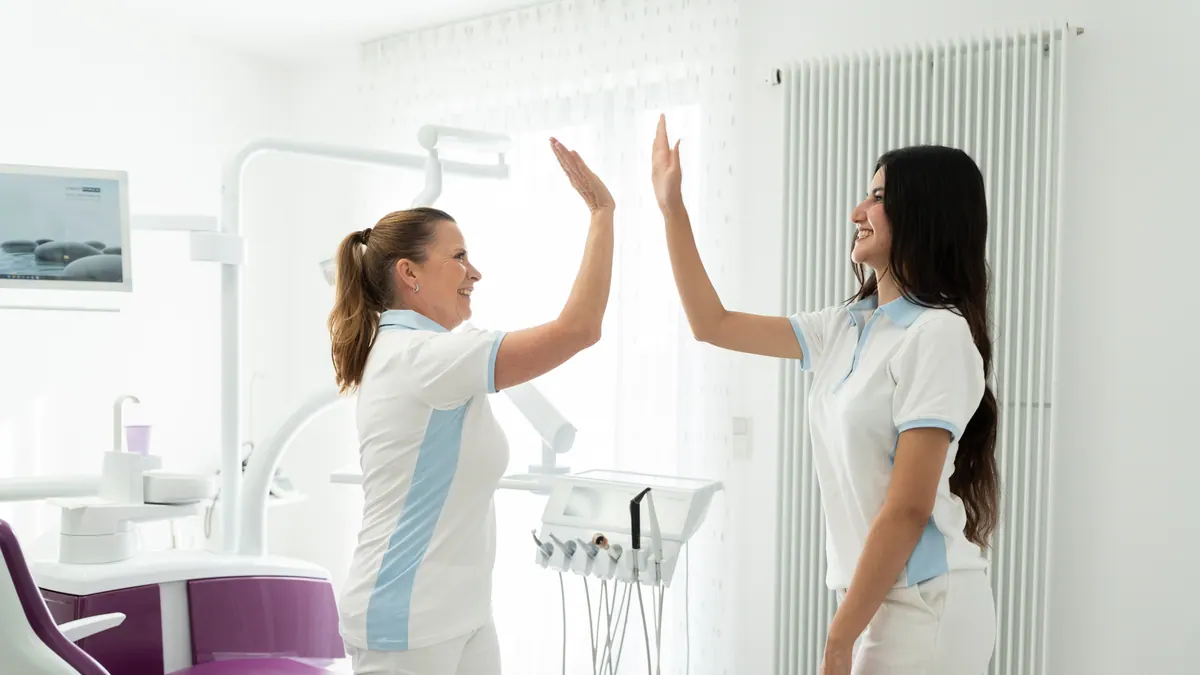
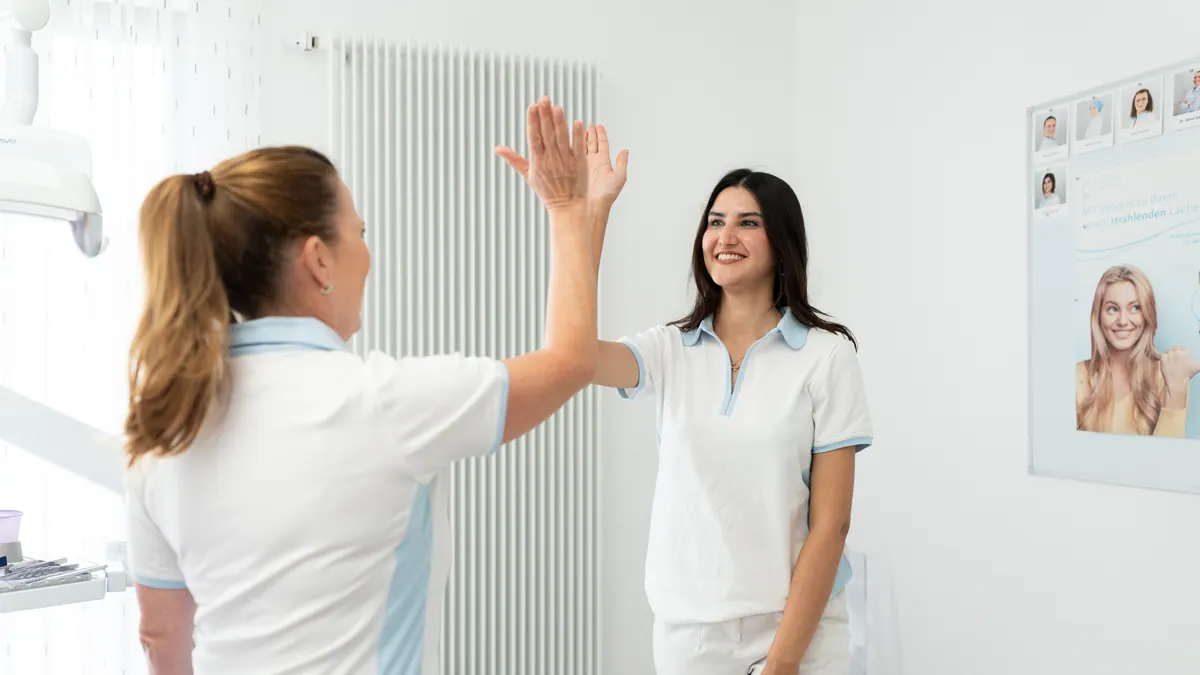
Korrekturen nach Durchsicht Awan: Bilder, Kundenmail, Ampel, Hero
- Nur Querformat-Fotos, jedes Motiv nur einmal (Schnuppertag, Fotoband, Helle Räume, Stellenbilder neu)
- Fotoband auf fünf verschiedene Motive reduziert
- Titelbild zweispaltig in voller Größe (3:2), nichts mehr abgeschnitten
- Bewerbungen und alle Adressen an info@zahnzentrum-messerschmidt.de statt AO-Adresse
- Stellen-Marken als Ampel: Offen grün, Initiativ senfgelb
- Zeile „Stelle veröffentlicht am … gültig bis …“ auf den Stellenseiten entfernt

Auf Wunsch von Awan Tofik.

Claude-Session: https://claude.ai/code/session_01Jm15P5HLa1fSZr9iYkc7sW

diff --git a/website/index.html b/website/index.html
@@ -70,21 +70,21 @@
 <main id="inhalt">
 
   <section class="hero" aria-labelledby="hero-titel">
-    <figure class="hero-bild-rahmen">
-      <picture>
-        <source media="(max-width:760px)" srcset="assets/img/hero-team-mobil.webp" type="image/webp">
-        <source media="(max-width:760px)" srcset="assets/img/hero-team-mobil.jpg">
-        <source srcset="assets/img/hero-team.webp" type="image/webp">
-        <img src="assets/img/hero-team.jpg" alt="Das Team des Zahnzentrums Messerschmidt in einem hellen Behandlungszimmer" width="2400" height="1029" fetchpriority="high">
-      </picture>
-    </figure>
-    <div class="wrap">
+    <div class="wrap hero-raster">
       <div class="hero-text">
         <span class="gross">Zahnzentrum Messerschmidt &nbsp;|&nbsp; Karriere</span>
         <h1 id="hero-titel">ZFA | ZMP | ZMF &amp; Azubi Jobs in Mainz-Laubenheim</h1>
         <p>Starte Deine Karriere im Zahnzentrum Messerschmidt. Wir suchen Dich als Verstärkung für unser Team – in einem hellen, modernen Haus mit netten Kolleginnen und Kollegen.</p>
         <p class="hero-knoepfe"><a class="knopf" href="#stellen">Zu den Stellenangeboten</a> <a class="knopf knopf-rand" href="https://wa.me/4915154321140?text=Hallo%2C%20ich%20interessiere%20mich%20f%C3%BCr%20eine%20Stelle%20im%20Zahnzentrum%20Messerschmidt." rel="noopener" target="_blank">Per WhatsApp schreiben</a></p>
       </div>
+      <figure class="hero-bild-rahmen">
+        <picture>
+          <source media="(max-width:760px)" srcset="assets/img/hero-team-mobil.webp" type="image/webp">
+          <source media="(max-width:760px)" srcset="assets/img/hero-team-mobil.jpg">
+          <source srcset="assets/img/hero-team.webp" type="image/webp">
+          <img src="assets/img/hero-team.jpg" alt="Das Team des Zahnzentrums Messerschmidt in einem hellen Behandlungszimmer" width="1800" height="1200" fetchpriority="high">
+        </picture>
+      </figure>
     </div>
   </section>
 
@@ -136,34 +136,16 @@
 
   <div class="fotoband" aria-label="Einblicke in die Praxis – Bilder laufen automatisch durch">
     <div class="fotoband-spur">
-    <img src="assets/img/praxis-29.webp" alt="Das Praxisteam in einem hellen Behandlungszimmer" width="900" height="600" loading="lazy">
-    <img src="assets/img/praxis-23.webp" alt="Zwei Kolleginnen klatschen sich ab" width="900" height="600" loading="lazy">
-    <img src="assets/img/praxis-14.webp" alt="Das Zahnzentrum von oben mit Solaranlage" width="900" height="600" loading="lazy">
-    <img src="assets/img/praxis-33.webp" alt="Mitarbeiterin am Empfang" width="900" height="600" loading="lazy">
-    <img src="assets/img/praxis-16.webp" alt="Fünf Kolleginnen im Behandlungszimmer" width="900" height="600" loading="lazy">
-    <img src="assets/img/praxis-53.webp" alt="Zwei Kolleginnen im hellen Praxisflur" width="900" height="600" loading="lazy">
-    <img src="assets/img/praxis-43.webp" alt="Zwei Kolleginnen am Empfang mit Tablet" width="900" height="600" loading="lazy">
-    <img src="assets/img/praxis-2.webp" alt="Das Gebäude des Zahnzentrums Messerschmidt" width="900" height="600" loading="lazy">
-    <img src="assets/img/praxis-112.webp" alt="Zahnärztin und Kollegin im Behandlungszimmer" width="900" height="600" loading="lazy">
-    <img src="assets/img/praxis-36.webp" alt="Mitarbeiterin telefoniert am Empfang" width="900" height="600" loading="lazy">
-    <img src="assets/img/praxis-19.webp" alt="Hände des Teams übereinander" width="900" height="600" loading="lazy">
-    <img src="assets/img/praxis-47.webp" alt="Zwei Kolleginnen besprechen etwas am Empfang" width="900" height="600" loading="lazy">
-    <img src="assets/img/praxis-105.webp" alt="Zwei Kolleginnen in der Praxis" width="900" height="600" loading="lazy">
-    <img src="assets/img/praxis-28.webp" alt="Das Praxisteam im Behandlungszimmer" width="900" height="600" loading="lazy">
-    <img aria-hidden="true" src="assets/img/praxis-29.webp" alt="" width="900" height="600" loading="lazy">
-    <img aria-hidden="true" src="assets/img/praxis-23.webp" alt="" width="900" height="600" loading="lazy">
-    <img aria-hidden="true" src="assets/img/praxis-14.webp" alt="" width="900" height="600" loading="lazy">
-    <img aria-hidden="true" src="assets/img/praxis-33.webp" alt="" width="900" height="600" loading="lazy">
-    <img aria-hidden="true" src="assets/img/praxis-16.webp" alt="" width="900" height="600" loading="lazy">
-    <img aria-hidden="true" src="assets/img/praxis-53.webp" alt="" width="900" height="600" loading="lazy">
-    <img aria-hidden="true" src="assets/img/praxis-43.webp" alt="" width="900" height="600" loading="lazy">
-    <img aria-hidden="true" src="assets/img/praxis-2.webp" alt="" width="900" height="600" loading="lazy">
-    <img aria-hidden="true" src="assets/img/praxis-112.webp" alt="" width="900" height="600" loading="lazy">
-    <img aria-hidden="true" src="assets/img/praxis-36.webp" alt="" width="900" height="600" loading="lazy">
-    <img aria-hidden="true" src="assets/img/praxis-19.webp" alt="" width="900" height="600" loading="lazy">
-    <img aria-hidden="true" src="assets/img/praxis-47.webp" alt="" width="900" height="600" loading="lazy">
-    <img aria-hidden="true" src="assets/img/praxis-105.webp" alt="" width="900" height="600" loading="lazy">
-    <img aria-hidden="true" src="assets/img/praxis-28.webp" alt="" width="900" height="600" loading="lazy">
+    <img src="assets/img/praxis-68.webp" alt="Mitarbeiterin des Zahnzentrums" width="900" height="600" loading="lazy">
+    <img src="assets/img/praxis-12.webp" alt="Das Zahnzentrum in Mainz-Laubenheim von oben" width="900" height="600" loading="lazy">
+    <img src="assets/img/praxis-89.webp" alt="Mitarbeiterin des Zahnzentrums" width="900" height="600" loading="lazy">
+    <img src="assets/img/praxis-1.webp" alt="Eingang des Zahnzentrums Messerschmidt" width="900" height="600" loading="lazy">
+    <img src="assets/img/praxis-98.webp" alt="Mitarbeiterin des Zahnzentrums" width="900" height="600" loading="lazy">
+    <img aria-hidden="true" src="assets/img/praxis-68.webp" alt="" width="900" height="600" loading="lazy">
+    <img aria-hidden="true" src="assets/img/praxis-12.webp" alt="" width="900" height="600" loading="lazy">
+    <img aria-hidden="true" src="assets/img/praxis-89.webp" alt="" width="900" height="600" loading="lazy">
+    <img aria-hidden="true" src="assets/img/praxis-1.webp" alt="" width="900" height="600" loading="lazy">
+    <img aria-hidden="true" src="assets/img/praxis-98.webp" alt="" width="900" height="600" loading="lazy">
     </div>
   </div>
 
@@ -217,7 +199,7 @@
     <div class="karten">
       <article class="karte"><picture><source srcset="assets/img/gruende-kollegen.webp" type="image/webp"><img src="assets/img/gruende-kollegen.jpg" alt="Fünf Kolleginnen legen im Behandlungszimmer gemeinsam die Hände zusammen" width="900" height="675" loading="lazy"></picture><div class="karte-text"><h3>Nette Kollegen</h3><p>Ein herzliches Team, das zusammenhält, sich gegenseitig unterstützt und gemeinsam Erfolge feiert.</p></div></article>
       <article class="karte"><picture><source srcset="assets/img/gruende-modern.webp" type="image/webp"><img src="assets/img/gruende-modern.jpg" alt="Das moderne Gebäude des Zahnzentrums Messerschmidt" width="900" height="675" loading="lazy"></picture><div class="karte-text"><h3>Moderne Räumlichkeiten</h3><p>Ein eigens gebautes, ökologisches Haus mit vier modernen Behandlungszimmern und neuester Technik.</p></div></article>
-      <article class="karte"><picture><source srcset="assets/img/gruende-hell.webp" type="image/webp"><img src="assets/img/gruende-hell.jpg" alt="Zwei Kolleginnen klatschen sich in einem hellen Behandlungszimmer ab" width="900" height="675" loading="lazy"></picture><div class="karte-text"><h3>Helle Räumlichkeiten</h3><p>Viel Tageslicht und freundliche Farben – ein Arbeitsplatz, an dem man sich jeden Tag wohlfühlt.</p></div></article>
+      <article class="karte"><picture><source srcset="assets/img/gruende-hell.webp" type="image/webp"><img src="assets/img/gruende-hell.jpg" alt="Zahnärztin und Kollegin in einem hellen Behandlungszimmer" width="900" height="675" loading="lazy"></picture><div class="karte-text"><h3>Helle Räumlichkeiten</h3><p>Viel Tageslicht und freundliche Farben – ein Arbeitsplatz, an dem man sich jeden Tag wohlfühlt.</p></div></article>
     </div>
   </section>
 
@@ -260,7 +242,7 @@
       <article class="karte"><picture><source srcset="assets/img/prozess-unterlagen.webp" type="image/webp"><img src="assets/img/prozess-unterlagen.jpg" alt="Hände an einer Tastatur am Empfang" width="800" height="600" loading="lazy"></picture><div class="karte-text"><h3>Unterlagencheck</h3><p>Sobald Deine Bewerbung da ist, sehen wir sie uns an und melden uns schnell bei Dir.</p></div></article>
       <article class="karte"><picture><source srcset="assets/img/prozess-telefonat.webp" type="image/webp"><img src="assets/img/prozess-telefonat.jpg" alt="Mitarbeiterin telefoniert am Empfang" width="800" height="600" loading="lazy"></picture><div class="karte-text"><h3>Kurzes Telefonat</h3><p>In einem kurzen Gespräch lernen wir uns kennen und klären erste Fragen.</p></div></article>
       <article class="karte"><picture><source srcset="assets/img/prozess-gespraech.webp" type="image/webp"><img src="assets/img/prozess-gespraech.jpg" alt="Zwei Mitarbeiterinnen im Gespräch am Empfang" width="800" height="600" loading="lazy"></picture><div class="karte-text"><h3>Persönliches Gespräch</h3><p>Dann laden wir Dich zu uns ins Zahnzentrum ein und schauen gemeinsam, ob wir zusammenpassen.</p></div></article>
-      <article class="karte"><picture><source srcset="assets/img/prozess-schnuppertag.webp" type="image/webp"><img src="assets/img/prozess-schnuppertag.jpg" alt="Zwei Kolleginnen gehen lachend durch den hellen Praxisflur" width="800" height="600" loading="lazy"></picture><div class="karte-text"><h3>Schnuppertag</h3><p>An einem Schnuppertag erlebst Du unser Team und Deinen künftigen Arbeitsplatz ganz direkt.</p></div></article>
+      <article class="karte"><picture><source srcset="assets/img/prozess-schnuppertag.webp" type="image/webp"><img src="assets/img/prozess-schnuppertag.jpg" alt="Das Team legt die Hände übereinander" width="800" height="600" loading="lazy"></picture><div class="karte-text"><h3>Schnuppertag</h3><p>An einem Schnuppertag erlebst Du unser Team und Deinen künftigen Arbeitsplatz ganz direkt.</p></div></article>
     </div>
   </section>
 

diff --git a/website/assets/css/stil.css b/website/assets/css/stil.css
@@ -19,7 +19,7 @@
 :root{
   --dunkel:#27363f; --hell:#eff1f3; --fuss:#dce1e4; --grau:#636363; --grau-hell:#a7b0b6;
   --linie:rgba(39,54,63,.14); --hellblau-menue:#83d0f0;
-  --gruen:#3f8f5b; --orange:#c98a2b; --whatsapp:#25d366;
+  --gruen:#2e8b47; --orange:#d4a72c; --whatsapp:#25d366;
 }
 *,*::before,*::after{box-sizing:border-box}
 html{scroll-behavior:smooth;-webkit-text-size-adjust:100%}
@@ -87,17 +87,16 @@ section.wrap,.abschnitt>.wrap{padding-top:clamp(3.5rem,8vw,6.5rem);padding-botto
   .hauptnavi.offen{display:flex}
 }
 
-/* Hero: großes Teamfoto über die ganze Breite, Text darunter */
-.hero{background:#fff}
-.hero-bild-rahmen{margin:0;width:100%}
-.hero-bild-rahmen img{width:100%;aspect-ratio:21/9;object-fit:cover;object-position:50% 32%;max-height:78vh}
-@media (max-width:760px){.hero-bild-rahmen img{aspect-ratio:4/3;max-height:none}}
-.hero .wrap{padding-top:clamp(2rem,5vw,3.5rem);padding-bottom:clamp(1rem,3vw,2rem)}
-.hero-text{max-width:860px}
+/* Hero: Text links, Teamfoto rechts – Bild in voller Größe (3:2), nichts abgeschnitten */
+.hero{background:var(--hell)}
+.hero-raster{display:grid;grid-template-columns:minmax(0,1fr) minmax(0,1.25fr);gap:clamp(2rem,4vw,4rem);align-items:center;padding-top:clamp(2rem,4vw,3.5rem);padding-bottom:clamp(2rem,4vw,3.5rem)}
+.hero-bild-rahmen{margin:0}
+.hero-bild-rahmen img{width:100%;aspect-ratio:3/2;object-fit:cover}
+.hero-text{max-width:640px}
 .hero .gross{display:block;font-family:var(--schrift-ueberschrift);font-size:16px;letter-spacing:2px;text-transform:uppercase;font-weight:700;color:var(--primaer);margin:0 0 1rem}
 .hero h1{margin-bottom:.8rem}
-.hero p{max-width:680px}
 .hero-knoepfe{display:flex;flex-wrap:wrap;gap:.8rem;margin-top:1.4rem}
+@media (max-width:900px){.hero-raster{grid-template-columns:1fr}.hero-bild-rahmen{order:-1;margin:0 -16px}}
 
 /* Zweispalter */
 .zwei{display:grid;gap:clamp(2rem,5vw,5rem);grid-template-columns:1fr 1fr;align-items:center}
@@ -137,8 +136,8 @@ section.wrap,.abschnitt>.wrap{padding-top:clamp(3.5rem,8vw,6.5rem);padding-botto
 .stelle-zeile .pfeil{font-size:1.8rem;color:var(--primaer);font-weight:300}
 .marken{display:flex;flex-direction:column;gap:.35rem}
 .marke{display:inline-block;font-family:var(--schrift-ueberschrift);font-size:.78rem;font-weight:700;letter-spacing:1.5px;text-transform:uppercase;padding:.2rem .6rem;color:#fff;text-align:center;border-radius:2px}
-.marke-gruen{background:var(--primaer)}
-.marke-orange{background:var(--orange)}
+.marke-gruen{background:var(--gruen)}
+.marke-orange{background:var(--orange);color:var(--dunkel)}
 @media (max-width:640px){.stelle-zeile{grid-template-columns:1fr;gap:.6rem}.marken{flex-direction:row;flex-wrap:wrap}.stelle-zeile .pfeil{display:none}}
 
 /* Fotokarten (Drei Gründe, Prozess) */

diff --git a/website/stellen/ausbildung-zfa-mainz.html b/website/stellen/ausbildung-zfa-mainz.html
@@ -89,7 +89,7 @@
        Auf dem Handy: Kopf, dann Ansprechpartner/Fakten, dann Text – der Kontakt bleibt oben, nicht am Seitenende. -->
   <div class="wrap stelle-raster">
     <div class="stelle-kopf">
-      <figure class="stelle-bild"><img src="../assets/img/stelle-ausbildung.jpg" alt="Zahnärztin und junge Kollegin im Behandlungszimmer" width="1200" height="675" loading="lazy"></figure>
+      <figure class="stelle-bild"><img src="../assets/img/stelle-ausbildung.jpg" alt="Junge Mitarbeiterin des Zahnzentrums Messerschmidt" width="1200" height="675" loading="lazy"></figure>
       <p class="marken marken-zeile"><span class="marke marke-gruen">Offen</span><span class="marke marke-gruen">September 2027</span><span class="marke marke-grau">Mainz-Laubenheim</span><span class="marke marke-grau">Ausbildung</span></p>
       <h1>Ausbildung zur ZFA / Zahnmedizinischen Fachangestellten (m/w/d) 2027</h1>
       <p class="untertitel">Starte im September 2027 Deine Ausbildung zur Zahnmedizinischen Fachangestellten – mit Einarbeitungsplan, netten Kollegen und modernen Räumen.</p>
@@ -171,14 +171,13 @@
 
         <p class="formular-meldung" role="status" aria-live="polite"></p>
         <button class="knopf" type="submit">Bewerbung absenden</button>
-        <p class="hinweis-klein">Oder direkt per E-Mail an <a href="mailto:tofik@ao-consult.de?subject=Bewerbung:%20Ausbildung%20ZFA%202027">tofik@ao-consult.de</a></p>
+        <p class="hinweis-klein">Oder direkt per E-Mail an <a href="mailto:info@zahnzentrum-messerschmidt.de?subject=Bewerbung:%20Ausbildung%20ZFA%202027">info@zahnzentrum-messerschmidt.de</a></p>
       </form>
       </div>
     </div>
   </div>
 </main>
 
-<p class="wrap hinweis-klein stelle-datum">Stelle veröffentlicht am 6. Oktober 2026 · gültig bis 20. November 2026</p>
 <footer class="fuss">
   <div class="wrap fuss-oben">
     <div>

diff --git a/website/stellen/zmp-zmf-mainz.html b/website/stellen/zmp-zmf-mainz.html
@@ -90,7 +90,7 @@
        Auf dem Handy: Kopf, dann Ansprechpartner/Fakten, dann Text – der Kontakt bleibt oben, nicht am Seitenende. -->
   <div class="wrap stelle-raster">
     <div class="stelle-kopf">
-      <figure class="stelle-bild"><img src="../assets/img/stelle-zmp-zmf.jpg" alt="Zwei Mitarbeiterinnen besprechen etwas auf dem Tablet am Empfang" width="1200" height="675" loading="lazy"></figure>
+      <figure class="stelle-bild"><img src="../assets/img/stelle-zmp-zmf.jpg" alt="Mitarbeiterin des Zahnzentrums Messerschmidt" width="1200" height="675" loading="lazy"></figure>
       <p class="marken marken-zeile"><span class="marke marke-gruen">Offen</span><span class="marke marke-gruen">ab sofort</span><span class="marke marke-grau">Mainz-Laubenheim</span><span class="marke marke-grau">Vollzeit / Teilzeit</span></p>
       <h1>ZMP / ZMF – Zahnmedizinische Prophylaxe- oder Fachassistenz (m/w/d)</h1>
       <p class="untertitel">Eigenverantwortliche Prophylaxe, professionelle Zahnreinigung und Patientenaufklärung in einem hellen, modernen Zahnzentrum.</p>
@@ -174,14 +174,13 @@
 
         <p class="formular-meldung" role="status" aria-live="polite"></p>
         <button class="knopf" type="submit">Bewerbung absenden</button>
-        <p class="hinweis-klein">Oder direkt per E-Mail an <a href="mailto:tofik@ao-consult.de?subject=Bewerbung:%20ZMP%20/%20ZMF">tofik@ao-consult.de</a></p>
+        <p class="hinweis-klein">Oder direkt per E-Mail an <a href="mailto:info@zahnzentrum-messerschmidt.de?subject=Bewerbung:%20ZMP%20/%20ZMF">info@zahnzentrum-messerschmidt.de</a></p>
       </form>
       </div>
     </div>
   </div>
 </main>
 
-<p class="wrap hinweis-klein stelle-datum">Stelle veröffentlicht am 6. Oktober 2026 · gültig bis 20. November 2026</p>
 <footer class="fuss">
   <div class="wrap fuss-oben">
     <div>

diff --git a/website/stellen/zfa-mainz.html b/website/stellen/zfa-mainz.html
@@ -174,14 +174,13 @@
 
         <p class="formular-meldung" role="status" aria-live="polite"></p>
         <button class="knopf" type="submit">Bewerbung absenden</button>
-        <p class="hinweis-klein">Oder direkt per E-Mail an <a href="mailto:tofik@ao-consult.de?subject=Bewerbung:%20ZFA%20–%20Zahnmedizinische%20Fachangestellte">tofik@ao-consult.de</a></p>
+        <p class="hinweis-klein">Oder direkt per E-Mail an <a href="mailto:info@zahnzentrum-messerschmidt.de?subject=Bewerbung:%20ZFA%20–%20Zahnmedizinische%20Fachangestellte">info@zahnzentrum-messerschmidt.de</a></p>
       </form>
       </div>
     </div>
   </div>
 </main>
 
-<p class="wrap hinweis-klein stelle-datum">Stelle veröffentlicht am 6. Oktober 2026 · gültig bis 20. November 2026</p>
 <footer class="fuss">
   <div class="wrap fuss-oben">
     <div>

diff --git a/vorlagen/stelle.html b/vorlagen/stelle.html
@@ -128,7 +128,6 @@
   </div>
 </main>
 
-<p class="wrap hinweis-klein stelle-datum">Stelle veröffentlicht am {{veroeffentlicht_lesbar}} · gültig bis {{gueltig_bis_lesbar}}</p>
 {{{fuss_html}}}
 {{{whatsapp_schwebend}}}
 

diff --git a/website/bewerbung-konfiguration.php b/website/bewerbung-konfiguration.php
@@ -8,7 +8,7 @@ return [
   '_max_dateien' => 3,
   '_max_mb' => 10,
   '_loeschfrist_monate' => 6,
-  "zfa-mainz" => ['empfaenger' => ["tofik@ao-consult.de"], 'titel' => "ZFA / Zahnmedizinische Fachangestellte (m/w/d) in Voll- oder Teilzeit", 'standort' => "Mainz-Laubenheim"],
-  "zmp-zmf-mainz" => ['empfaenger' => ["tofik@ao-consult.de"], 'titel' => "ZMP / ZMF – Zahnmedizinische Prophylaxe- oder Fachassistenz (m/w/d)", 'standort' => "Mainz-Laubenheim"],
-  "ausbildung-zfa-mainz" => ['empfaenger' => ["tofik@ao-consult.de"], 'titel' => "Ausbildung zur ZFA / Zahnmedizinischen Fachangestellten (m/w/d) 2027", 'standort' => "Mainz-Laubenheim"],
+  "zfa-mainz" => ['empfaenger' => ["info@zahnzentrum-messerschmidt.de"], 'titel' => "ZFA / Zahnmedizinische Fachangestellte (m/w/d) in Voll- oder Teilzeit", 'standort' => "Mainz-Laubenheim"],
+  "zmp-zmf-mainz" => ['empfaenger' => ["info@zahnzentrum-messerschmidt.de"], 'titel' => "ZMP / ZMF – Zahnmedizinische Prophylaxe- oder Fachassistenz (m/w/d)", 'standort' => "Mainz-Laubenheim"],
+  "ausbildung-zfa-mainz" => ['empfaenger' => ["info@zahnzentrum-messerschmidt.de"], 'titel' => "Ausbildung zur ZFA / Zahnmedizinischen Fachangestellten (m/w/d) 2027", 'standort' => "Mainz-Laubenheim"],
 ];

diff --git a/doku/entscheidungen.md b/doku/entscheidungen.md
@@ -6,7 +6,7 @@ Stand 06.10.2026, Awan Tofik mit Claude.
 
 - Aufbau nach dem Standard der Karriereseiten (ao-karriere, whiteblick-karriere), CI der Hauptseite zahnzentrum-messerschmidt.de.
 - Logo und CI von der Hauptseite nehmen (SVG kommt laut Onboarding später von der Kundin).
-- Testbewerbungen an **tofik@ao-consult.de**. Absender: **jobs@zahnzentrum-messerschmidt-karriere.de**.
+- Bewerbungen und alle sichtbaren Adressen: **info@zahnzentrum-messerschmidt.de** (Kundenmail, Korrektur Awan 06.10.2026 – AO bekommt nur den ersten Formulartest). Absender: **jobs@zahnzentrum-messerschmidt-karriere.de**.
 - WhatsApp-Knopf **und** normale Telefonnummer. Upload-Feld trotzdem anbieten (Erstkontakt ohne Unterlagen möglich).
 - ZFA: Voll- und Teilzeit, ab sofort. ZMP/ZMF: eine Stelle. Ausbildung: September 2027, Anzahl der Plätze NICHT nennen.
 - Standardtexte für die Stellen. Arbeitszeiten (Sprechzeiten) dürfen auf die Seite. Noch keine Teamstimmen → Abschnitt weggelassen.
@@ -17,7 +17,8 @@ Stand 06.10.2026, Awan Tofik mit Claude.
 - Foto Nr. 62 ist Dr. Sabine Messerschmidt.
 - WhatsApp-Nummer +49 1515 4321140 darf auf die Seite.
 - ZMP/ZMF: ab sofort.
-- Sichtbare E-Mail info@zahnzentrum-messerschmidt.de passt.
+- Sichtbare E-Mail und Empfänger: info@zahnzentrum-messerschmidt.de.
+- Keine Hochkantbilder, kein Motiv doppelt; Ampel: Offen grün, Initiativ senfgelb; keine Datumszeile auf den Stellenseiten.
 - Fotos: Iwan Artemjew, Fotograf der AO Consulting GmbH.
 
 ## Weitere Annahmen
@@ -27,7 +28,7 @@ Stand 06.10.2026, Awan Tofik mit Claude.
 
 ## Offen vor dem Livegang
 
-- [ ] Empfängeradresse Bewerbungen (Vorschlag karriere@zahnzentrum-messerschmidt.de) – in kunde.json `bewerbungen.standard_empfaenger` tauschen.
+- [ ] Falls die Kundin eine eigene Bewerbungsadresse anlegt (z. B. karriere@zahnzentrum-messerschmidt.de): in kunde.json `bewerbungen.standard_empfaenger` tauschen.
 - [ ] Domain zahnzentrum-messerschmidt-karriere.de registrieren; Postfach jobs@ auf dieser Domain anlegen (Absender).
 - [ ] Impressum: „Umsatzsteueridentifikationsnummer 28/114/5003/0“ ist das Format einer Steuernummer – mit Kundin klären.
 - [ ] Datenschutz von der Kundin freigeben lassen (Hauptseite war Stand 2018 mit Google Analytics/Privacy Shield – nicht übernommen).
@@ -36,19 +37,20 @@ Stand 06.10.2026, Awan Tofik mit Claude.
 - [ ] Matomo-Eintrag anlegen, `matomo_id` in kunde.json eintragen.
 - [ ] Instagram-Passwort stand im Onboarding-PDF im Klartext → in den Passwort-Manager, Kundin sollte es ändern.
 
-## Bilder (Shooting, Nummer = Dateiname ZahnzentrumMesserschmidt_<Nr>.jpg)
+## Bilder (Shooting Iwan Artemjew, Nummer = Dateiname ZahnzentrumMesserschmidt_<Nr>.jpg)
+
+Regel: nur Querformat-Originale, jedes Motiv (Serie) nur einmal auf der Startseite.
 
 | Datei | Nr. | Verwendung |
 |---|---|---|
-| hero-team(-mobil), og-bild | 29 | Titelbild, Vorschaubild für WhatsApp/Social |
-| haus | 14 | Über uns (Haus von oben mit Solaranlage) |
+| hero-team(-mobil), og-bild | 29 | Titelbild (3:2, ungeschnitten), Vorschaubild |
+| haus | 14 | Über uns |
 | job-familie | 24 | Team-Abschnitt |
-| gruende-kollegen / -modern / -hell | 17 / 4 / 21 | Drei Gründe |
-| prozess-unterlagen / -telefonat / -gespraech / -schnuppertag | 39 / 35 / 44 / 54 | Bewerbungsprozess |
-| ansprechpartner(-quer) | 62 | Dr. Sabine Messerschmidt (bestätigen!) |
+| gruende-kollegen / -modern / -hell | 17 / 4 / 112 | Drei Gründe |
+| prozess-unterlagen / -telefonat / -gespraech / -schnuppertag | 39 / 36 / 44 / 19 | Bewerbungsprozess |
+| ansprechpartner(-quer) | 62 | Dr. Sabine Messerschmidt (bestätigt) |
 | faq-empfang | 33 | FAQ |
-| stelle-zfa / -zmp-zmf / -ausbildung | 23 / 47 / 113 | Stellenseiten |
-| praxis-<Nr> | 29, 23, 14, 33, 16, 53, 43, 2, 112, 36, 19, 47, 105, 28 | Fotoband |
+| praxis-<Nr> | 68, 12, 89, 1, 98 | Fotoband |
+| stelle-zfa / -zmp-zmf / -ausbildung | 21 / 80 / 102 | Stellenseiten |
 
-Zuschnitt: Skript `bilder.py` (Mac-Arbeitsordner), jpg + webp. Die Einzelportraits (Nr. 56–104) sind noch ungenutzt – ohne Namen
-nicht verwendbar; ideal für einen späteren Team-Abschnitt, wenn Namen und Rollen da sind.
+Nicht verwendet: Hochkant (3, 5, 7, 15, 27, 49–55) und Wiederholungen derselben Serie. Zuschnitt: `bilder.py` (Mac-Arbeitsordner), jpg + webp.
